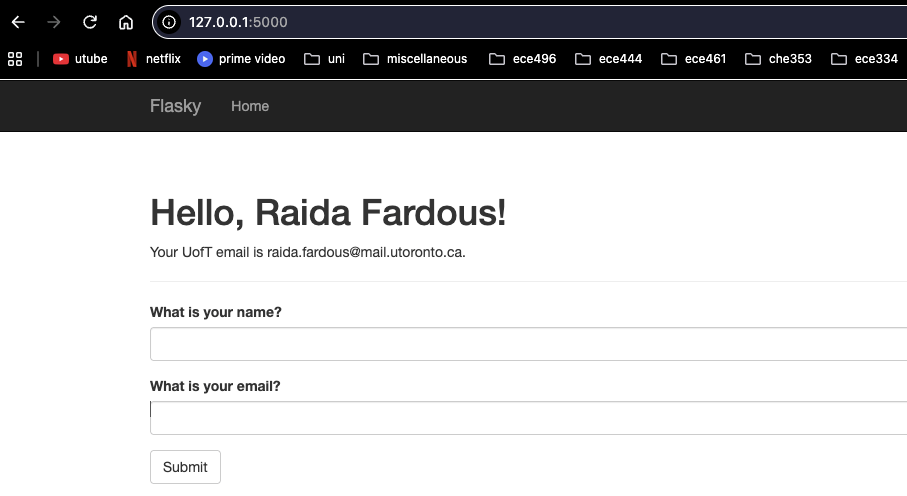
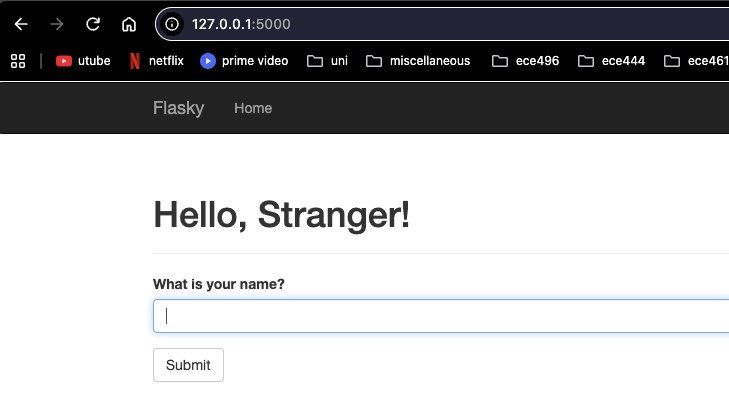
Finishing Activity 1-4

diff --git a/templates/index.html b/templates/index.html
@@ -11,6 +11,16 @@
 
         <h1>Hello, {{ name }}!</h1>
 
+        {% if valid_email %}
+
+            <h1>Your UofT email is {{ email }}</h1>
+
+        {% else %}
+
+            <h1>Please use your UofT email.</h1>
+            
+        {% endif %}
+
     {% else %}
 
         <h1>Hello, Stranger!</h1>

diff --git a/hello.py b/hello.py
@@ -10,7 +10,7 @@ from wtforms.validators import DataRequired, Email
 # make form 
 class NameForm(FlaskForm):
     name = StringField('What is your name?', validators=[DataRequired()])
-    #email = StringField('What is your email?', validators=[DataRequired(), Email()]) # to verify email format
+    email = StringField('What is your email?', validators=[DataRequired(), Email()]) # to verify email format
     submit = SubmitField('Submit')
 
 # make and connect flask app to bootstrap 
@@ -34,8 +34,9 @@ def index():
                 and session.get('email') != form.email.data:
             flash('Looks like you have changed your email!')
 
-        # save the new name
+        # save the new name/email
         session['name'] = form.name.data
+        session['email'] = form.email.data
 
         # check for valid email
         if '@mail.utoronto.ca' in form.email.data.lower():

diff --git a/README.md b/README.md
@@ -13,6 +13,7 @@ https://github.com/miguelgrinberg/flasky.
 
 ## Activity 1.3: Finished Chapter 3 Example
 ![alt text](activity_1-3.png)
+![alt text](1-3-commit.png)
 
 ## Activity 1.4: Part 1
 ![alt text](1-4-1.png)
@@ -22,3 +23,9 @@ https://github.com/miguelgrinberg/flasky.
 
 ## Activity 1.4: Part 3
 ![alt text](activity_1-4-3.png)
+
+## Activity 1.4: Part 4
+![alt text](activity_1-4-4.png)
+
+## Activity 1.4: Part 5
+![alt text](activity_1-4-5.png)
